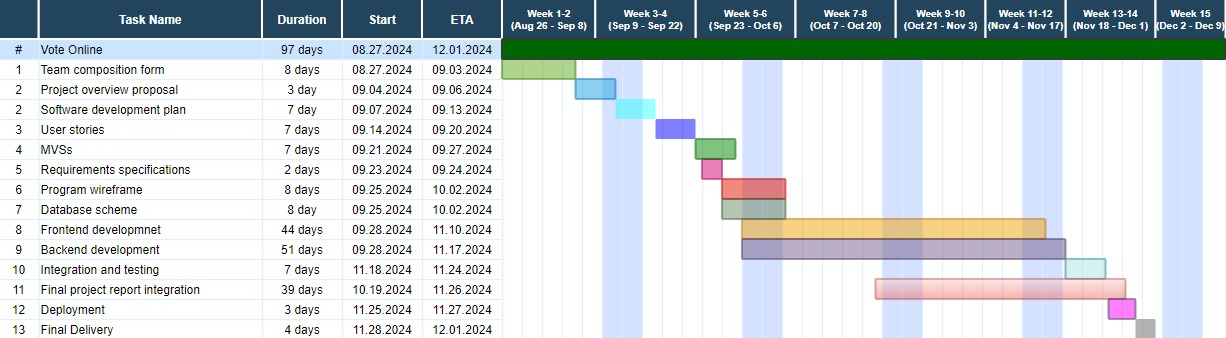
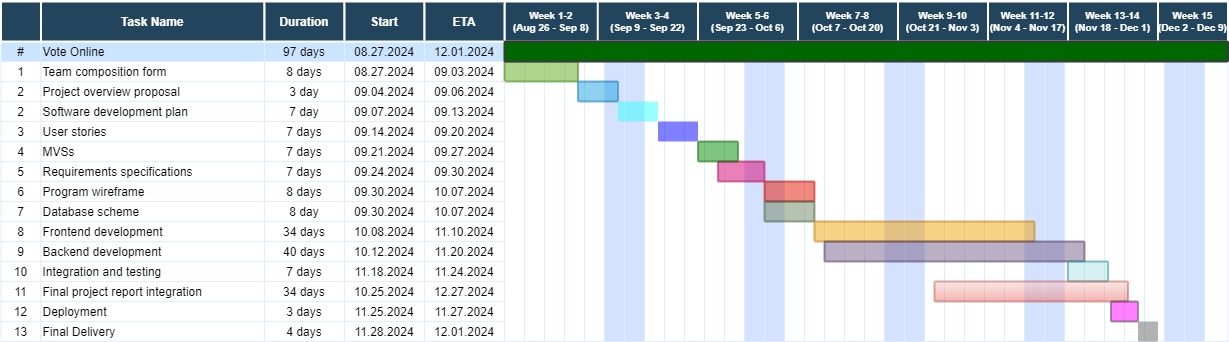
dates changes in gantt chart

diff --git a/deliverables/sdp.md b/deliverables/sdp.md
@@ -23,29 +23,41 @@ We use Discord for virtual discussions, while important updates or information a
 21st September to 27th September 2024
 
 **Requirement Specification:**
-23rd September to 24th September 2024
+24th September to 30th September 2024
 
-** Design Specification:**
-25th September to 2nd October 2024
+**Design Specification:**
+30th September to 7th October 2024
 
 
 **Milestones**
-Front-End Development: 
+- Front-End Development: 
     Voter authentication, candidate viewing, ballot design, and voting submission.
     Framework: React.js for building an interactive, responsive interface.
 
-Back-End Development:
+- Back-End Development:
 	Admin dashboard for creating elections, managing candidates, and monitoring votes.
 	Secure vote counting, real-time results, and voter eligibility verification.
 	Framework: Django or Node.js for managing user data, security, and interactions with the database.
 
-Database Development:
+- Database Development:
 	Database scheme (PostgreSQL or MySQL for relational data management)
 	Program wireframe
 
-Deployment:
+- Deployment:
 	Deploy the system on cloud servers and perform final checks.
 	Integration and testing
 
-Final delivery:
+- Final delivery:
 	Release the final version of product and perform final presentation.
+
+
+## Change of Dates
+
+| Task                               |From Dates           | To Dates            | Reason                                               | 
+| -----------------------------------|---------------------|---------------------|------------------------------------------------------|
+| Requirement specification          |09-23-2024/09-24-2024|09-24-2024/09-30-2024|To proceed according to class schedule.               |
+| Wireframe Design	 			     |09-25-2024/10-02-2024|09-30-2024/10-07-2024|rescheduled following req. specification date.        |
+| Database scheme design             |09-25-2024/10-02-2024|09-30-2024/10-07-2024|rescheduled following req. specification date.        |
+| FrontEnd Development               |09-28-2024/11-10-2024|10-08-2024/11-10-2024|rescheduled following design specification date.      |
+| BackeEnd Development				 |09-28-2024/11-17-2024|10-12-2024/11-20-2024|rescheduled to start it only after 4 days of frontend |development.
+| Final report						 |10-19-2024/11-26-2024|10-25-2024/12-27-2024|rescheduled accordingly with the other changed dates  |
